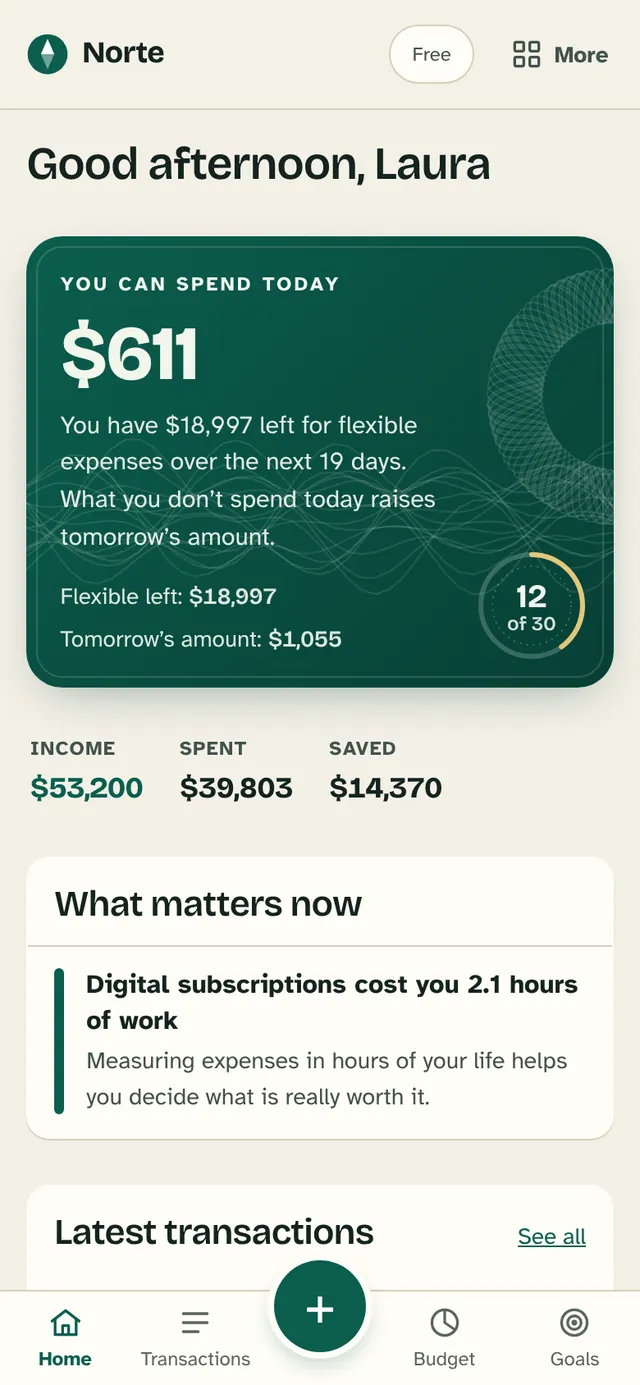
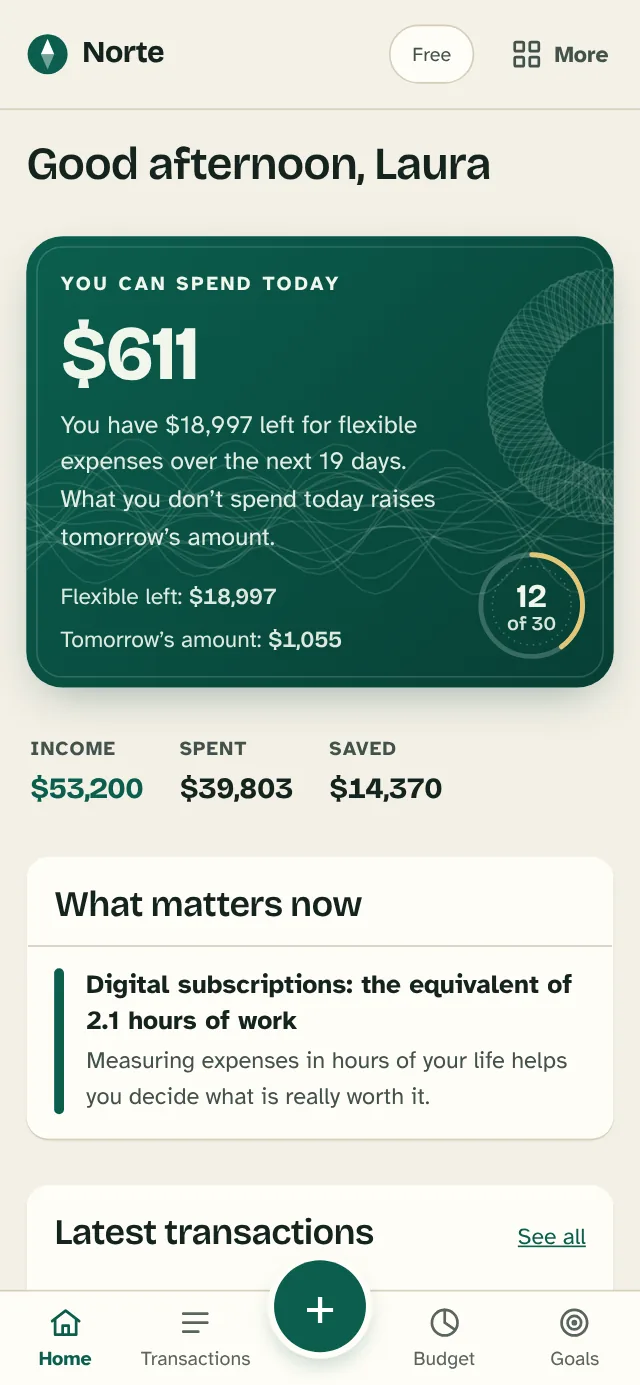
Norte 1.0.1: corrige el consejo de horas de trabajo y actualiza capturas
Claude-Session: https://claude.ai/code/session_01Tg7WfVgfkjzisgmq3poBEb

diff --git a/index.html b/index.html
@@ -783,7 +783,7 @@ i18nLoad([["{0}% de tu ingreso va a ahorro e inversión (meta: 20%)","{0}% of yo
 ["Regla del excedente: {0} a tu colchón o deuda, {1} a metas o inversión y {2} para disfrutar sin culpa.","Surplus rule: {0} to your cushion or debt, {1} to goals or investing and {2} to enjoy guilt-free.","Règle de l’excédent : {0} pour votre matelas ou vos dettes, {1} pour vos objectifs ou l’investissement et {2} pour vous faire plaisir sans culpabilité."],
 ["Mismo monto, categoría y fecha: {0}.","Same amount, category and date: {0}.","Même montant, même catégorie et même date : {0}."],
 ["Ahorras {0}% de tu ingreso","You save {0}% of your income","Vous épargnez {0} % de vos revenus"],
-["{0} te costó {1} horas de trabajo","{0} cost you {1} hours of work","{0} vous a coûté {1} heures de travail"],
+["{0}: el equivalente a {1} horas de trabajo","{0}: the equivalent of {1} hours of work","{0} : l’équivalent de {1} heures de travail"],
 ["Más usadas","Most used","Les plus utilisées"],
 ["Todas","All","Toutes"],
 ["Sincronizado hace {0} min","Synced {0} min ago","Synchronisé il y a {0} min"],
@@ -2878,7 +2878,7 @@ function insights(ctx, money) {
   if (I > 0 && hours > 0) {
     let top = null, topV = 0;
     for (const c of cats) { if (GROUP[c.group]?.life) { const v = ms.byCat[c.id] || 0; if (v > topV) { topV = v; top = c; } } }
-    if (top && topV > 0) out.push({ level: 'idea', title: _t`${nm(top)} te costó ${lnum(Math.round(topV / (ctx.inc.avgTotal / hours) * 10) / 10)} horas de trabajo`, body: 'Medir gastos en horas de tu vida ayuda a decidir qué vale la pena de verdad.' });
+    if (top && topV > 0) out.push({ level: 'idea', title: _t`${nm(top)}: el equivalente a ${lnum(Math.round(topV / (ctx.inc.avgTotal / hours) * 10) / 10)} horas de trabajo`, body: 'Medir gastos en horas de tu vida ayuda a decidir qué vale la pena de verdad.' });
   }
   // san y préstamos entre personas
   for (const s of st.sans || []) {

diff --git a/sw.js b/sw.js
@@ -1,5 +1,5 @@
 /* Norte: service worker. La app abre sin conexión; con conexión siempre trae la versión más nueva. */
-const VERSION = 'norte-v2-8';
+const VERSION = 'norte-v2-9';
 const SHELL = [
   './',
   'index.html',
